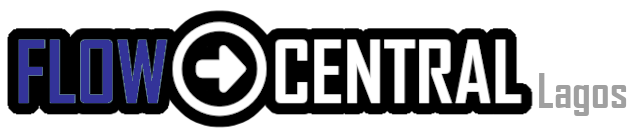
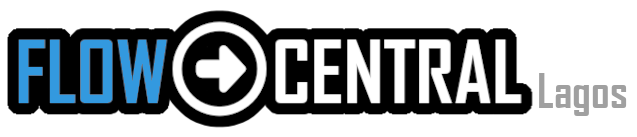
Softer theme colors

Changed region(s): [[0.0298, 0.292, 0.2684, 0.7591]]

diff --git a/flowcentral-common/src/main/resources/web/themes/farko/css/flowcentral.css b/flowcentral-common/src/main/resources/web/themes/farko/css/flowcentral.css
@@ -688,7 +688,7 @@ textarea:focus {outline: none !important;box-shadow: 0 0 6px #5194f3;}
 .fc-table .table {table-layout:fixed; width:100%; border-collapse:collapse;}
 .fc-table .table tr {vertical-align: middle;}
 .fc-table .table .detached {max-height:70vh;}
-.fc-table .table .sheader {padding:2px 6px;font-weight: bold;font-size:10pt;background:#a5b7cc;vertical-align: middle;}
+.fc-table .table .sheader {padding:2px 6px;font-weight: bold;font-size:10pt;background:var(--color-formsec);vertical-align: middle;}
 .fc-table .table .sfooter {padding:0px 6px;font-weight: bold;font-size:8pt;background:#fff;vertical-align: middle;height:0px;}
 .fc-table .table .odd {background-color:#f1f4f5;}
 .fc-table .table .odd:hover {background-color:var(--color-tablehov);}

diff --git a/flowcentral-studio/src/main/resources/web/themes/farko/css/flowcentral-studio.css b/flowcentral-studio/src/main/resources/web/themes/farko/css/flowcentral-studio.css
@@ -5,11 +5,20 @@
  * Licensed under the Apache License, Version 2.0 (the "License")
  */
 
+ /****** VARIABLES *********/
+ :root {
+ 	--color-deep: #24303f;
+ 	--color-menu: #3c4e63;
+ 	--color-menuhov:#394452;
+ 	--color-formsec: #6e819d;
+ 	--color-icon: #525e6d;
+ 	--color-tablesel: #bfd6ff;
+ 	--color-tablehov: #d5e7fb;
+ }
+
 /* flowCentral studio CSS */
-.ui-select .sslist .norm:hover {
-  background-color: #d5e7fb;
-  color: #000;
-}
+.ui-select .sslist .norm:hover {background-color: #d5e7fb;color: #000;}
+.ui-select .sslist .sel {background-color: #3c4e63;color: #FFF;}
 
 /* CRUD dialog */
 .fc-cruddialog {}

diff --git a/flowcentral-themes/src/main/resources/web/themes/farko/css/flowcentral-red.css b/flowcentral-themes/src/main/resources/web/themes/farko/css/flowcentral-red.css
@@ -5,14 +5,15 @@
  * Licensed under the Apache License, Version 2.0 (the "License")
  */
 /****** VARIABLES *********/
+/* flowcentral-red.css */
 :root {
-	--color-deep: #7f0000;
-	--color-menu: #993333;
-	--color-menuhov: #802020;
-	--color-formsec: #cc6666;
-	--color-icon: #804040;
-	--color-tablesel: #ffcccc;
-	--color-tablehov: #ffe5e5;
+	--color-deep: #bf3333;
+	--color-menu: #df5050;
+	--color-menuhov: #bf4040;
+	--color-formsec: #df8080;
+	--color-icon: #bf5050;
+	--color-tablesel: #ff8080;
+	--color-tablehov: #ffb3b3;
 }
 
 			

diff --git a/flowcentral-themes/src/main/resources/web/themes/farko/css/flowcentral-blue.css b/flowcentral-themes/src/main/resources/web/themes/farko/css/flowcentral-blue.css
@@ -7,13 +7,13 @@
 /* flowcentral-blue.css */
 /****** VARIABLES *********/
 :root {
-	--color-deep: #00007f;
-	--color-menu: #333399;
-	--color-menuhov: #202080;
-	--color-formsec: #6666cc;
-	--color-icon: #404080;
-	--color-tablesel: #ccccff;
-	--color-tablehov: #e5e5ff;
+	--color-deep: #007fbf;
+	--color-menu: #3399df;
+	--color-menuhov: #206ebf;
+	--color-formsec: #66b3cc;
+	--color-icon: #407ebf;
+	--color-tablesel: #66cfff;
+	--color-tablehov: #99dfff;
 }
 
 			

diff --git a/flowcentral-themes/src/main/resources/web/themes/farko/css/flowcentral-orange.css b/flowcentral-themes/src/main/resources/web/themes/farko/css/flowcentral-orange.css
@@ -6,13 +6,13 @@
  */
 /****** VARIABLES *********/
 :root {
-	--color-deep: #7f3f00;
-	--color-menu: #996633;
-	--color-menuhov: #805020;
-	--color-formsec: #cc9966;
-	--color-icon: #806640;
-	--color-tablesel: #ffddcc;
-	--color-tablehov: #ffe5d5;
+	--color-deep: #bf5e00;
+	--color-menu: #df8a33;
+	--color-menuhov: #bf5e20;
+	--color-formsec: #dfb366;
+	--color-icon: #bf6e40;
+	--color-tablesel: #ffb366;
+	--color-tablehov: #ffcc99;
 }
 
 			

diff --git a/flowcentral-themes/src/main/resources/web/themes/farko/css/flowcentral-yellow.css b/flowcentral-themes/src/main/resources/web/themes/farko/css/flowcentral-yellow.css
@@ -6,13 +6,13 @@
  */
 /****** VARIABLES *********/
 :root {
-	--color-deep: #7f7f00;
-	--color-menu: #999933;
-	--color-menuhov: #808020;
-	--color-formsec: #cccc66;
-	--color-icon: #808040;
-	--color-tablesel: #ffffcc;
-	--color-tablehov: #ffffe5;
+	--color-deep: #bf7f00;
+	--color-menu: #dfb333;
+	--color-menuhov: #bf7f20;
+	--color-formsec: #dfcc66;
+	--color-icon: #bf7f40;
+	--color-tablesel: #ffe066;
+	--color-tablehov: #ffeb99;
 }
 
 			

diff --git a/flowcentral-themes/src/main/resources/web/themes/farko/css/flowcentral-green.css b/flowcentral-themes/src/main/resources/web/themes/farko/css/flowcentral-green.css
@@ -7,13 +7,13 @@
 /* flowcentral-green.css */
 /****** VARIABLES *********/
 :root {
-	--color-deep: #007f00;
+	--color-deep: #007F33;
 	--color-menu: #339933;
-	--color-menuhov: #208020;
-	--color-formsec: #66cc66;
-	--color-icon: #408040;
-	--color-tablesel: #ccffcc;
-	--color-tablehov: #e5ffe5;
+	--color-menuhov: #205E33;
+	--color-formsec: #66CC66;
+	--color-icon: #407E33;
+	--color-tablesel: #66FF66;
+	--color-tablehov: #99FF99;
 }
 
 			
